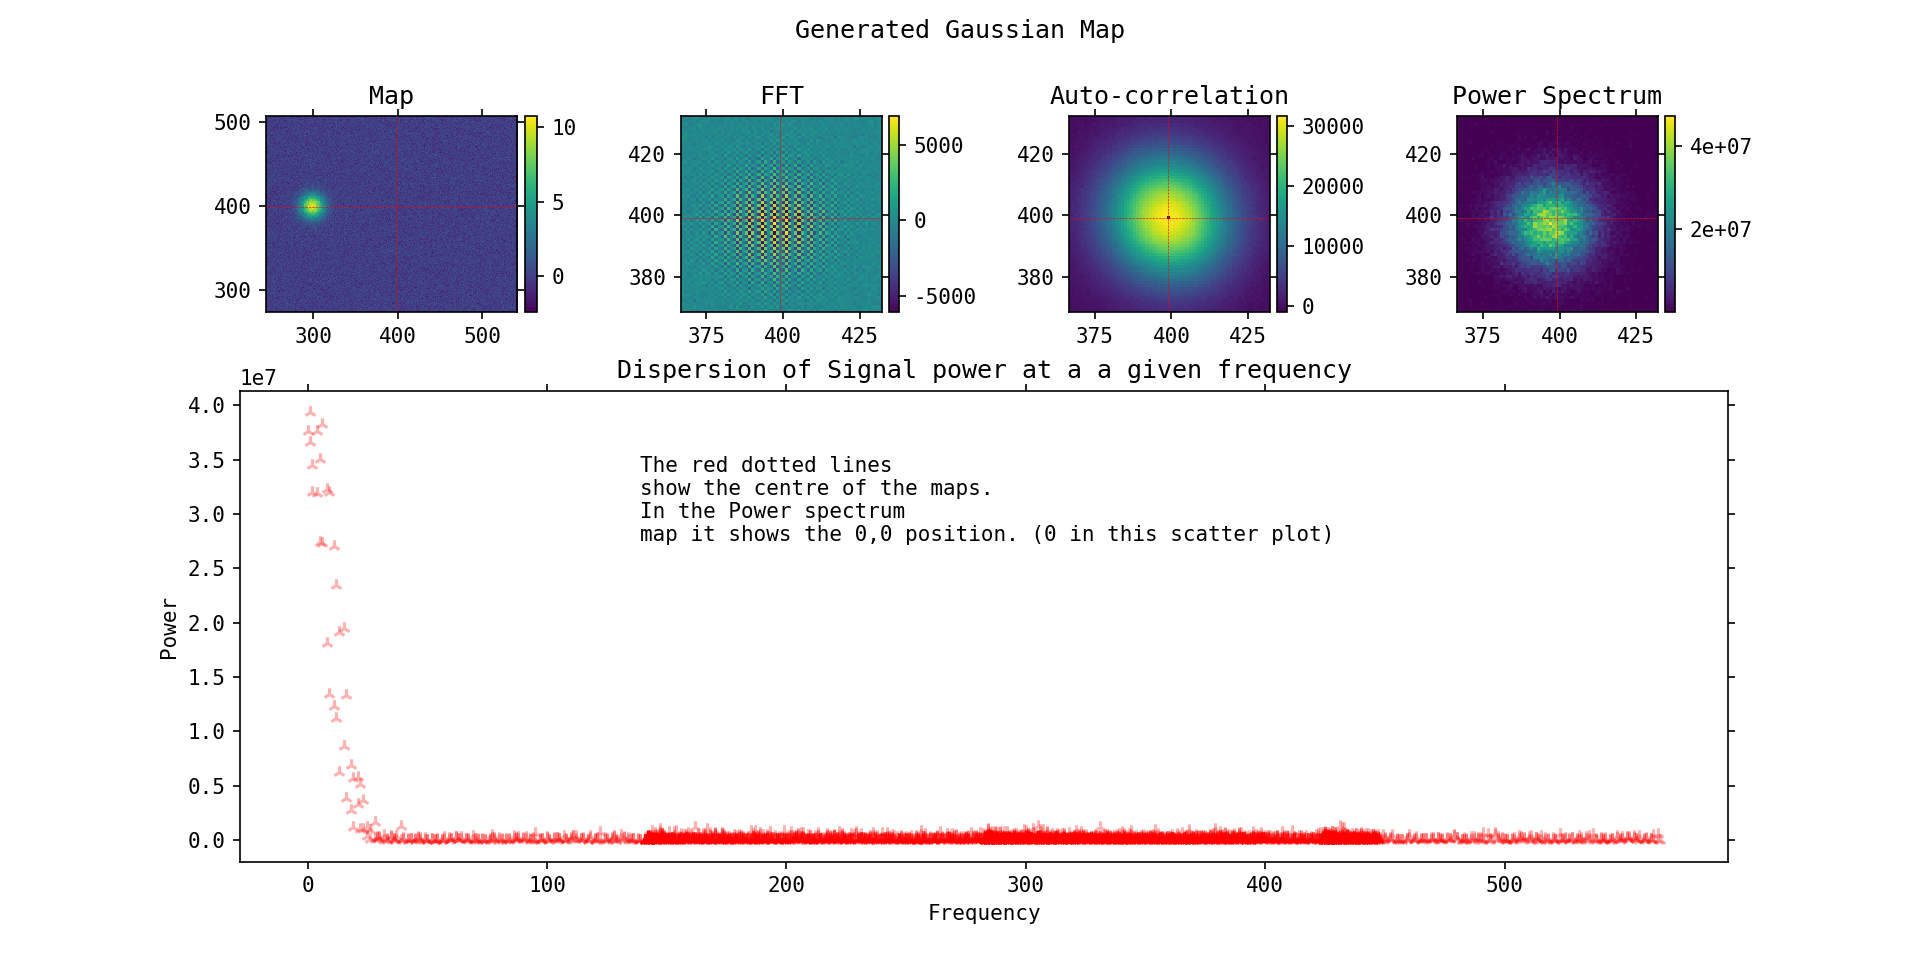
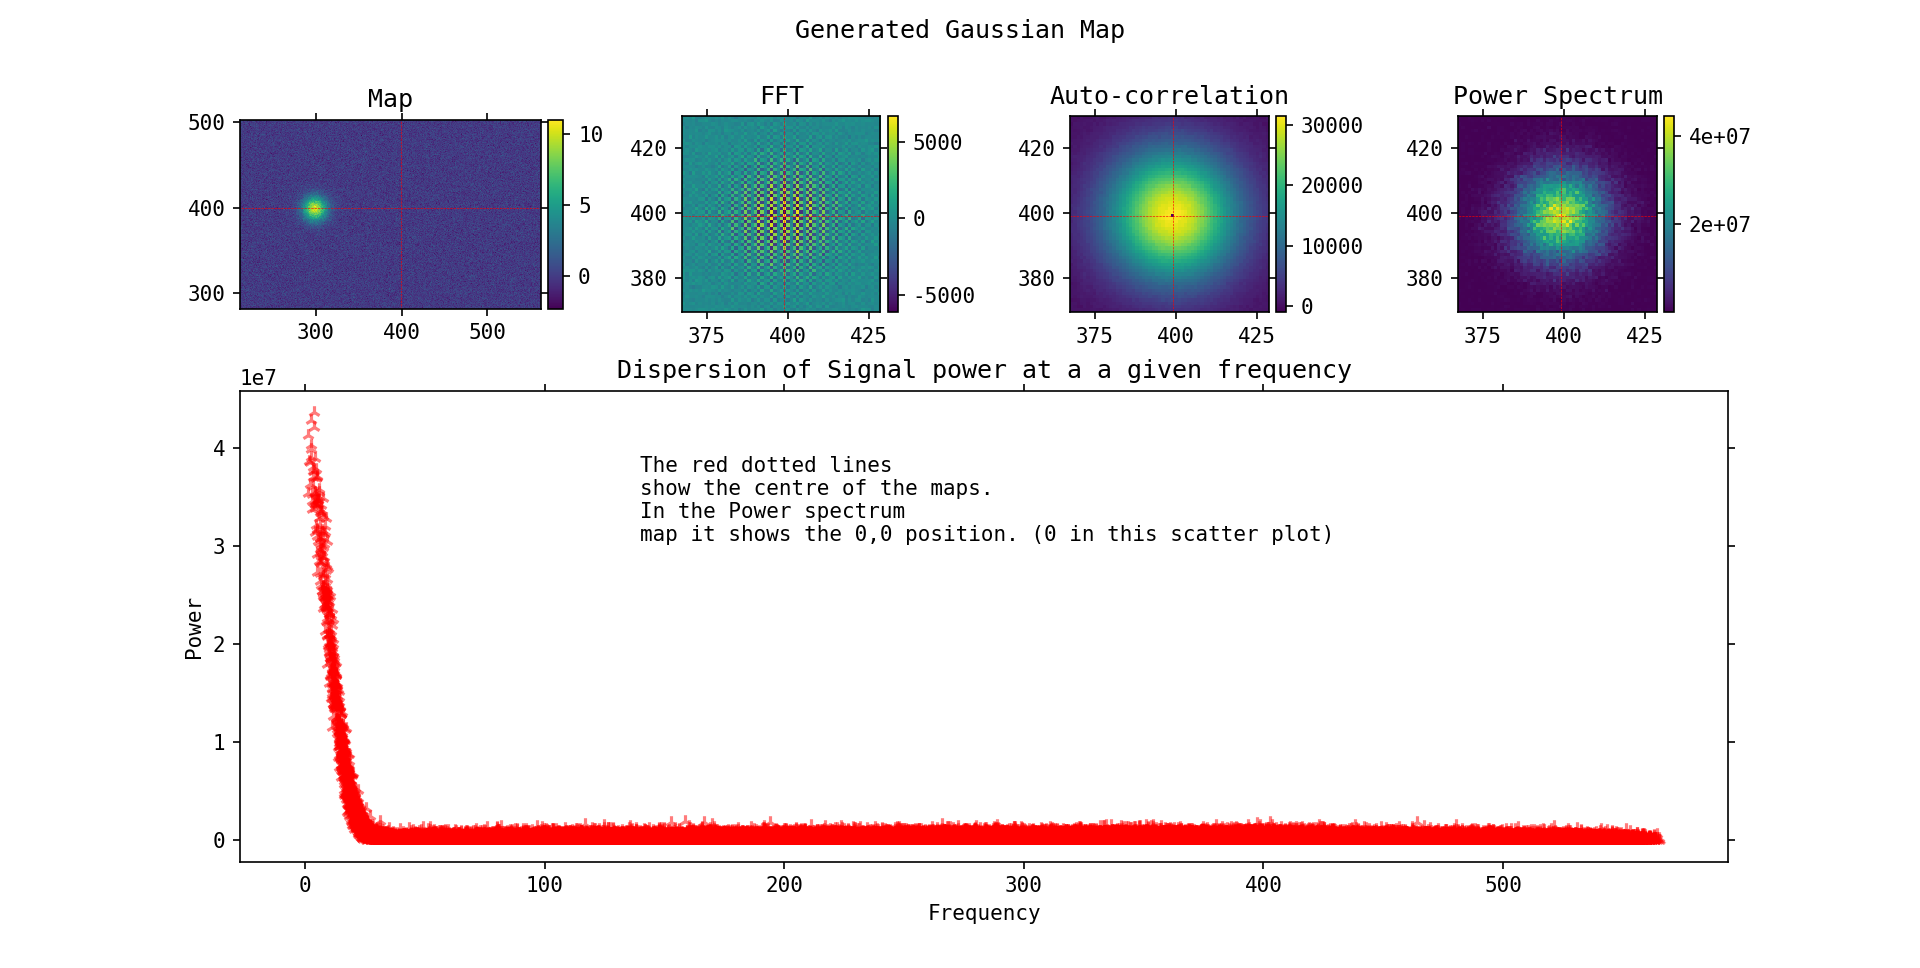
new imgs

diff --git a/annuliPlot.py b/annuliPlot.py
@@ -24,19 +24,26 @@ x = np.arange(len_x)
 y = np.arange(len_y)
 X, Y = np.meshgrid(x, y)
 
-GaussParams = [10, len_x // 2 - 1 + x_shift, len_y // 2 - 1 + y_shift, 10, 10, 0]
+GaussParams = [10,  # amplitude
+               len_x // 2 - 1 + x_shift,  # Mean x value
+               len_y // 2 - 1 + y_shift,  # Mean Y value
+               10,  # Sigma X
+               10,  # Sigma Y
+               0  # theta
+               ]
 
 G2D = Gaussian2D().evaluate(X, Y, *GaussParams)
 noi = G2D.max() * NoiPer * np.random.normal(size=G2D.shape)
 
-G2D += noi
+G2D_Noi = G2D + noi
+
 
 # When the input a is a time-domain signal and A = fft(a),
 # np.abs(A) is its amplitude spectrum and
 # np.abs(A)**2 is its power spectrum.
 # The phase spectrum is obtained by np.angle(A).
 
-FFT_G2D = fft2(G2D)  # amplitude spectrum when np.abs(FFT_G2D) is used
+FFT_G2D = fft2(G2D_Noi)  # amplitude spectrum when np.abs(FFT_G2D) is used
 FFT_G2D = np.roll(FFT_G2D, (FFT_G2D.shape[0] // 2) - 1, axis=(0, 1))
 
 MidMapX = FFT_G2D.shape[1] // 2 - 1
@@ -51,7 +58,7 @@ AC_rolled = np.roll(AC.real, AC.shape[0]//2-1, axis=(0, 1))
 AC_rolled[MidMapY, MidMapX] = 0
 
 # Binning
-loc = list(permutations(np.arange(0, G2D.shape[0]), 2))
+loc = list(permutations(np.arange(0, G2D_Noi.shape[0]), 2))
 radius, pows = [0], [PSD_rolled[PSD_rolled.shape[0]//2-1, PSD_rolled.shape[1]//2-1]]
 
 for idx in loc:
@@ -77,9 +84,9 @@ acIM.get_shared_y_axes().join(acIM, psdIM)
 
 # row 1
 MapIM.set_title('Map')
-MapIM.hlines(y=G2D.shape[0]//2-1, xmin=0, xmax=G2D.shape[1], color='r', linestyles='--', linewidths=0.3)
-MapIM.vlines(x=G2D.shape[1]//2-1, ymin=0, ymax=G2D.shape[0], color='r', linestyles='--', linewidths=0.3)
-im1 = MapIM.imshow(G2D, origin='lower')
+MapIM.hlines(y=G2D_Noi.shape[0]//2-1, xmin=0, xmax=G2D_Noi.shape[1], color='r', linestyles='--', linewidths=0.3)
+MapIM.vlines(x=G2D_Noi.shape[1]//2-1, ymin=0, ymax=G2D_Noi.shape[0], color='r', linestyles='--', linewidths=0.3)
+im1 = MapIM.imshow(G2D_Noi, origin='lower')
 colourbar(im1)
 
 fftIM.set_title('FFT')
